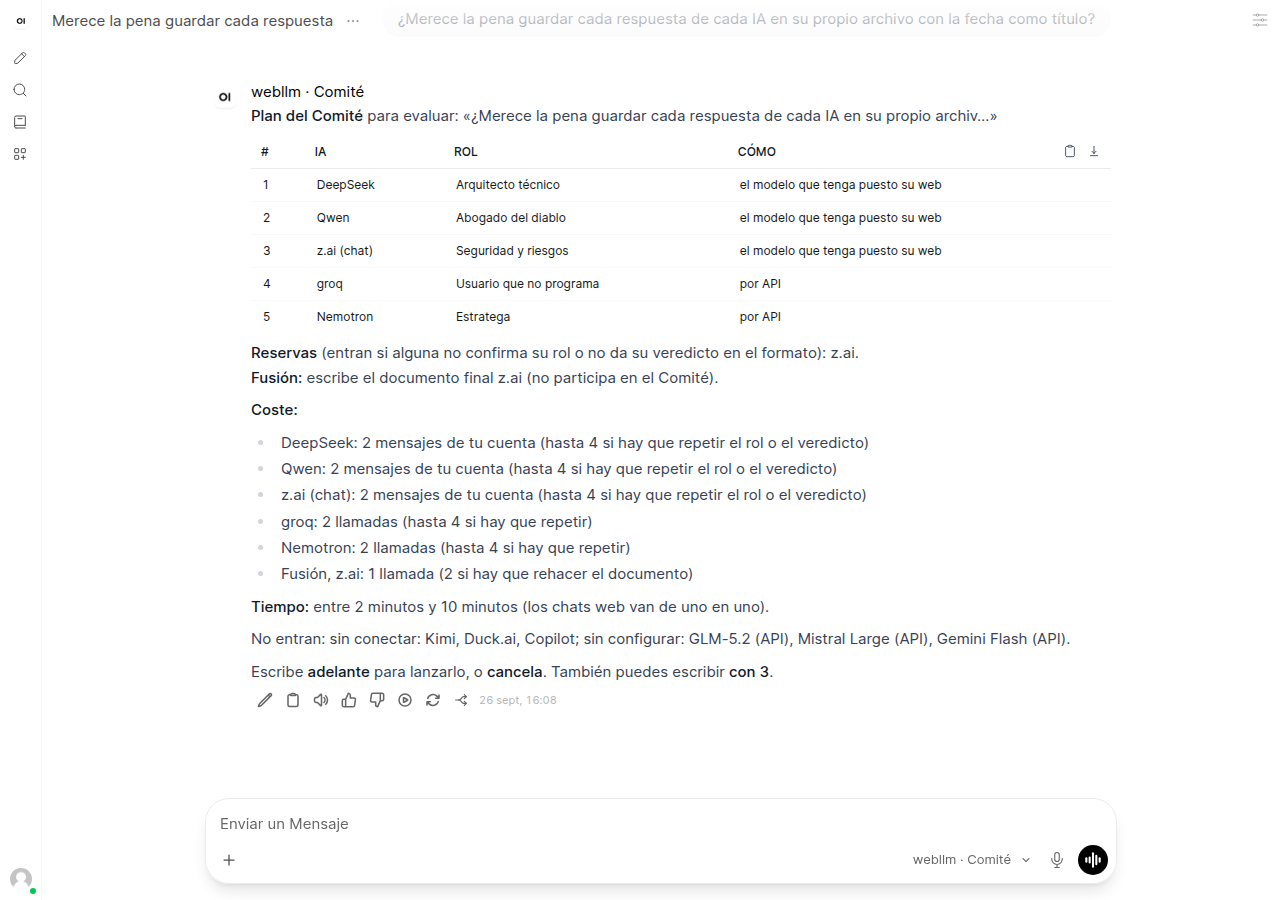
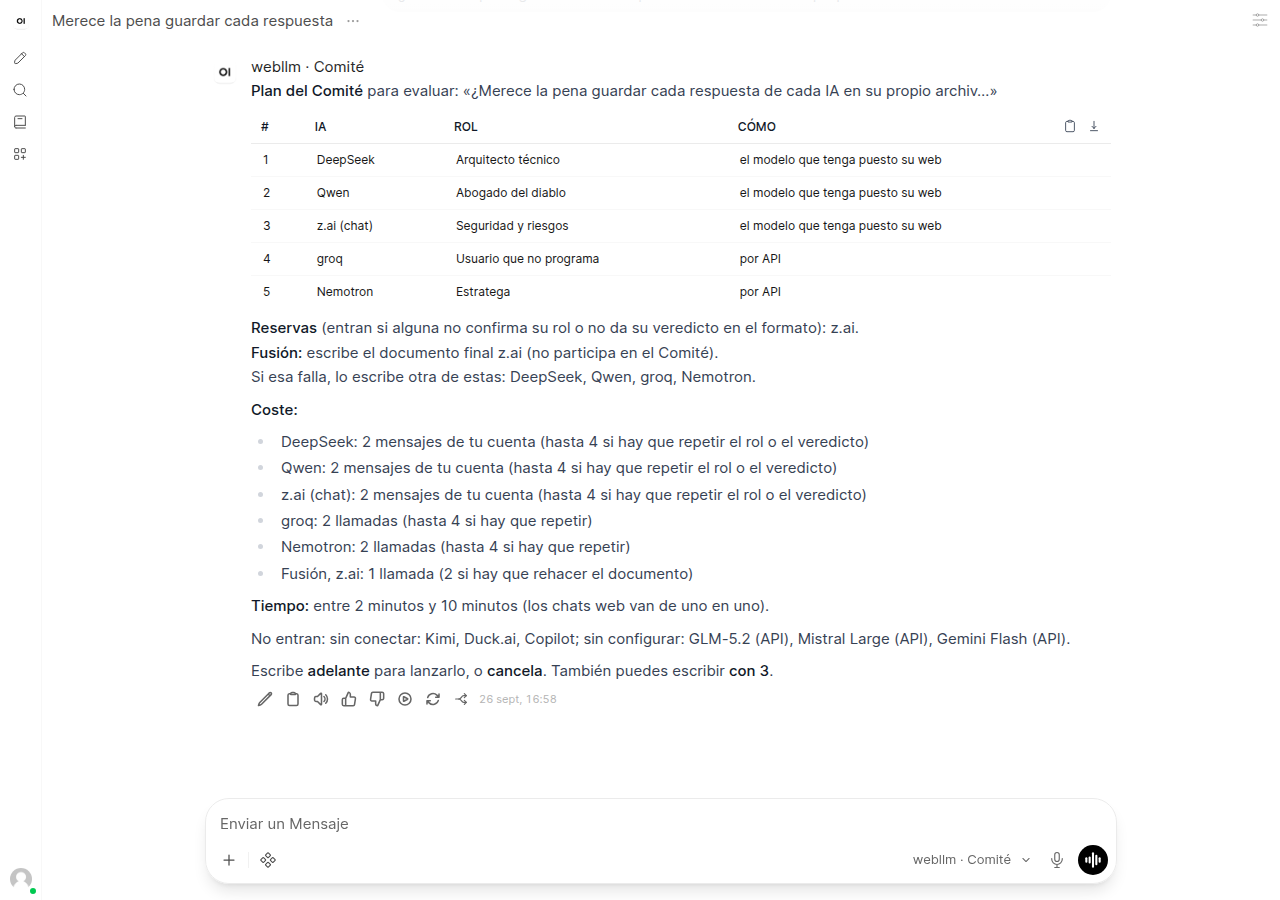
F7 done: the whole suite passes (332), with real Chromium and the real Open WebUI
- Fresh Open WebUI captures of the Committee (the plan now names every AI that may write the
  document); the real totals in ESTADO and docs/F7-comite.md.

Claude-Session: https://claude.ai/code/session_019YDPDvZXXRP2iNA2C8HGJY

diff --git a/docs/ESTADO.md b/docs/ESTADO.md
@@ -69,7 +69,7 @@ tú / aider / webllm ask ──► puente (127.0.0.1:20130) ──► extensión
   - 30 pruebas del Comité; rompiendo a propósito cada protección, su prueba falla;
   - la extensión de verdad en Chromium, **5 de 5**; con la anterior, cada caso falla;
   - **el Open WebUI de verdad, 5 de 5**;
-  - todas juntas: **__TOTAL__**.
+  - todas juntas: **332 pasan** (con Chromium y Open WebUI de verdad).
 - **Falta tu PC:** un Comité real de 5 sobre una idea tuya. Después, 3 veces con «Dos chats web a la vez». Guía en `docs/F7-comite.md`.
 
 ## Novedades del 26-sep-2026 (PLAN-v5, fase F6: webs que se reparan solas, y seguir tú en la web)

diff --git a/docs/F7-comite.md b/docs/F7-comite.md
@@ -5,6 +5,7 @@
 - **La extensión de verdad en Chromium: 5 de 5** en «seguir en la misma conversación». Con la extensión anterior, cada caso falla.
 - **El Open WebUI de verdad: 5 de 5.**
 - **93 capturas de la app, sin problemas.**
+- **Todas las pruebas del proyecto juntas: 332 pasan**, ninguna falla (18 min, con Chromium y Open WebUI de verdad).
 
 Falta lo que solo se ve en tu PC: un Comité real de 5 sobre una idea tuya. Después, el mismo con dos chats web a la vez: si sale bien 3 veces seguidas, se deja encendido.
 
